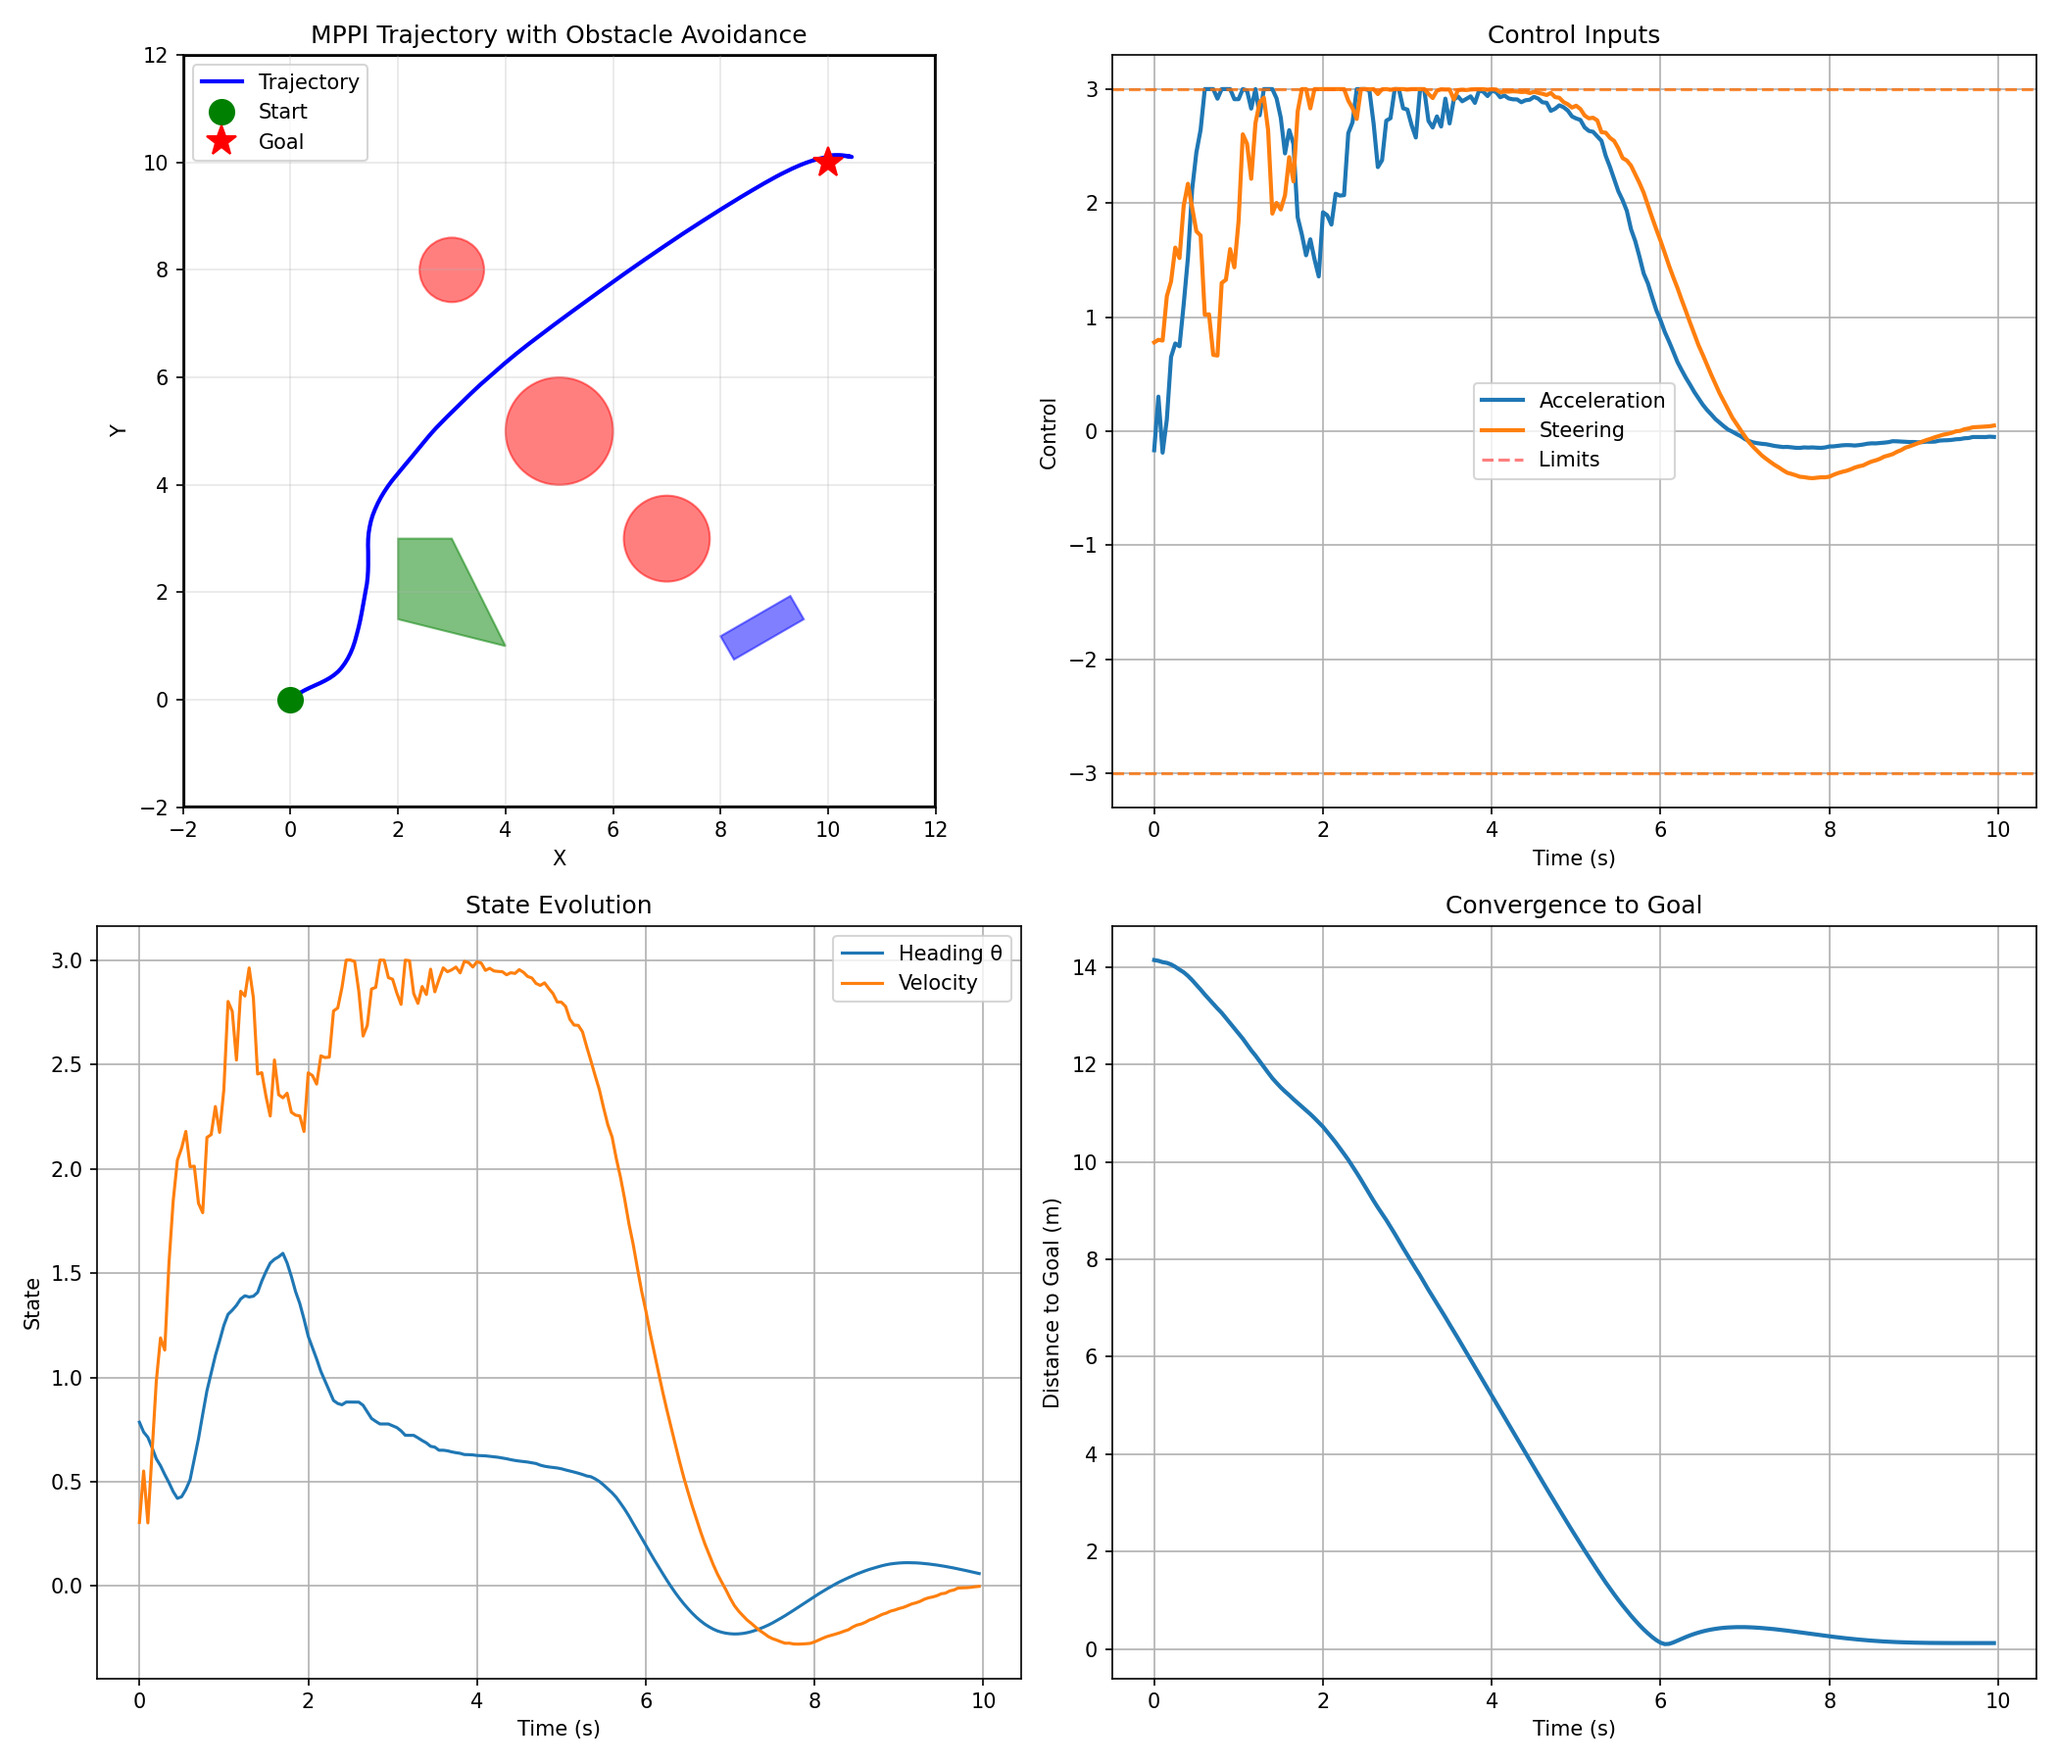
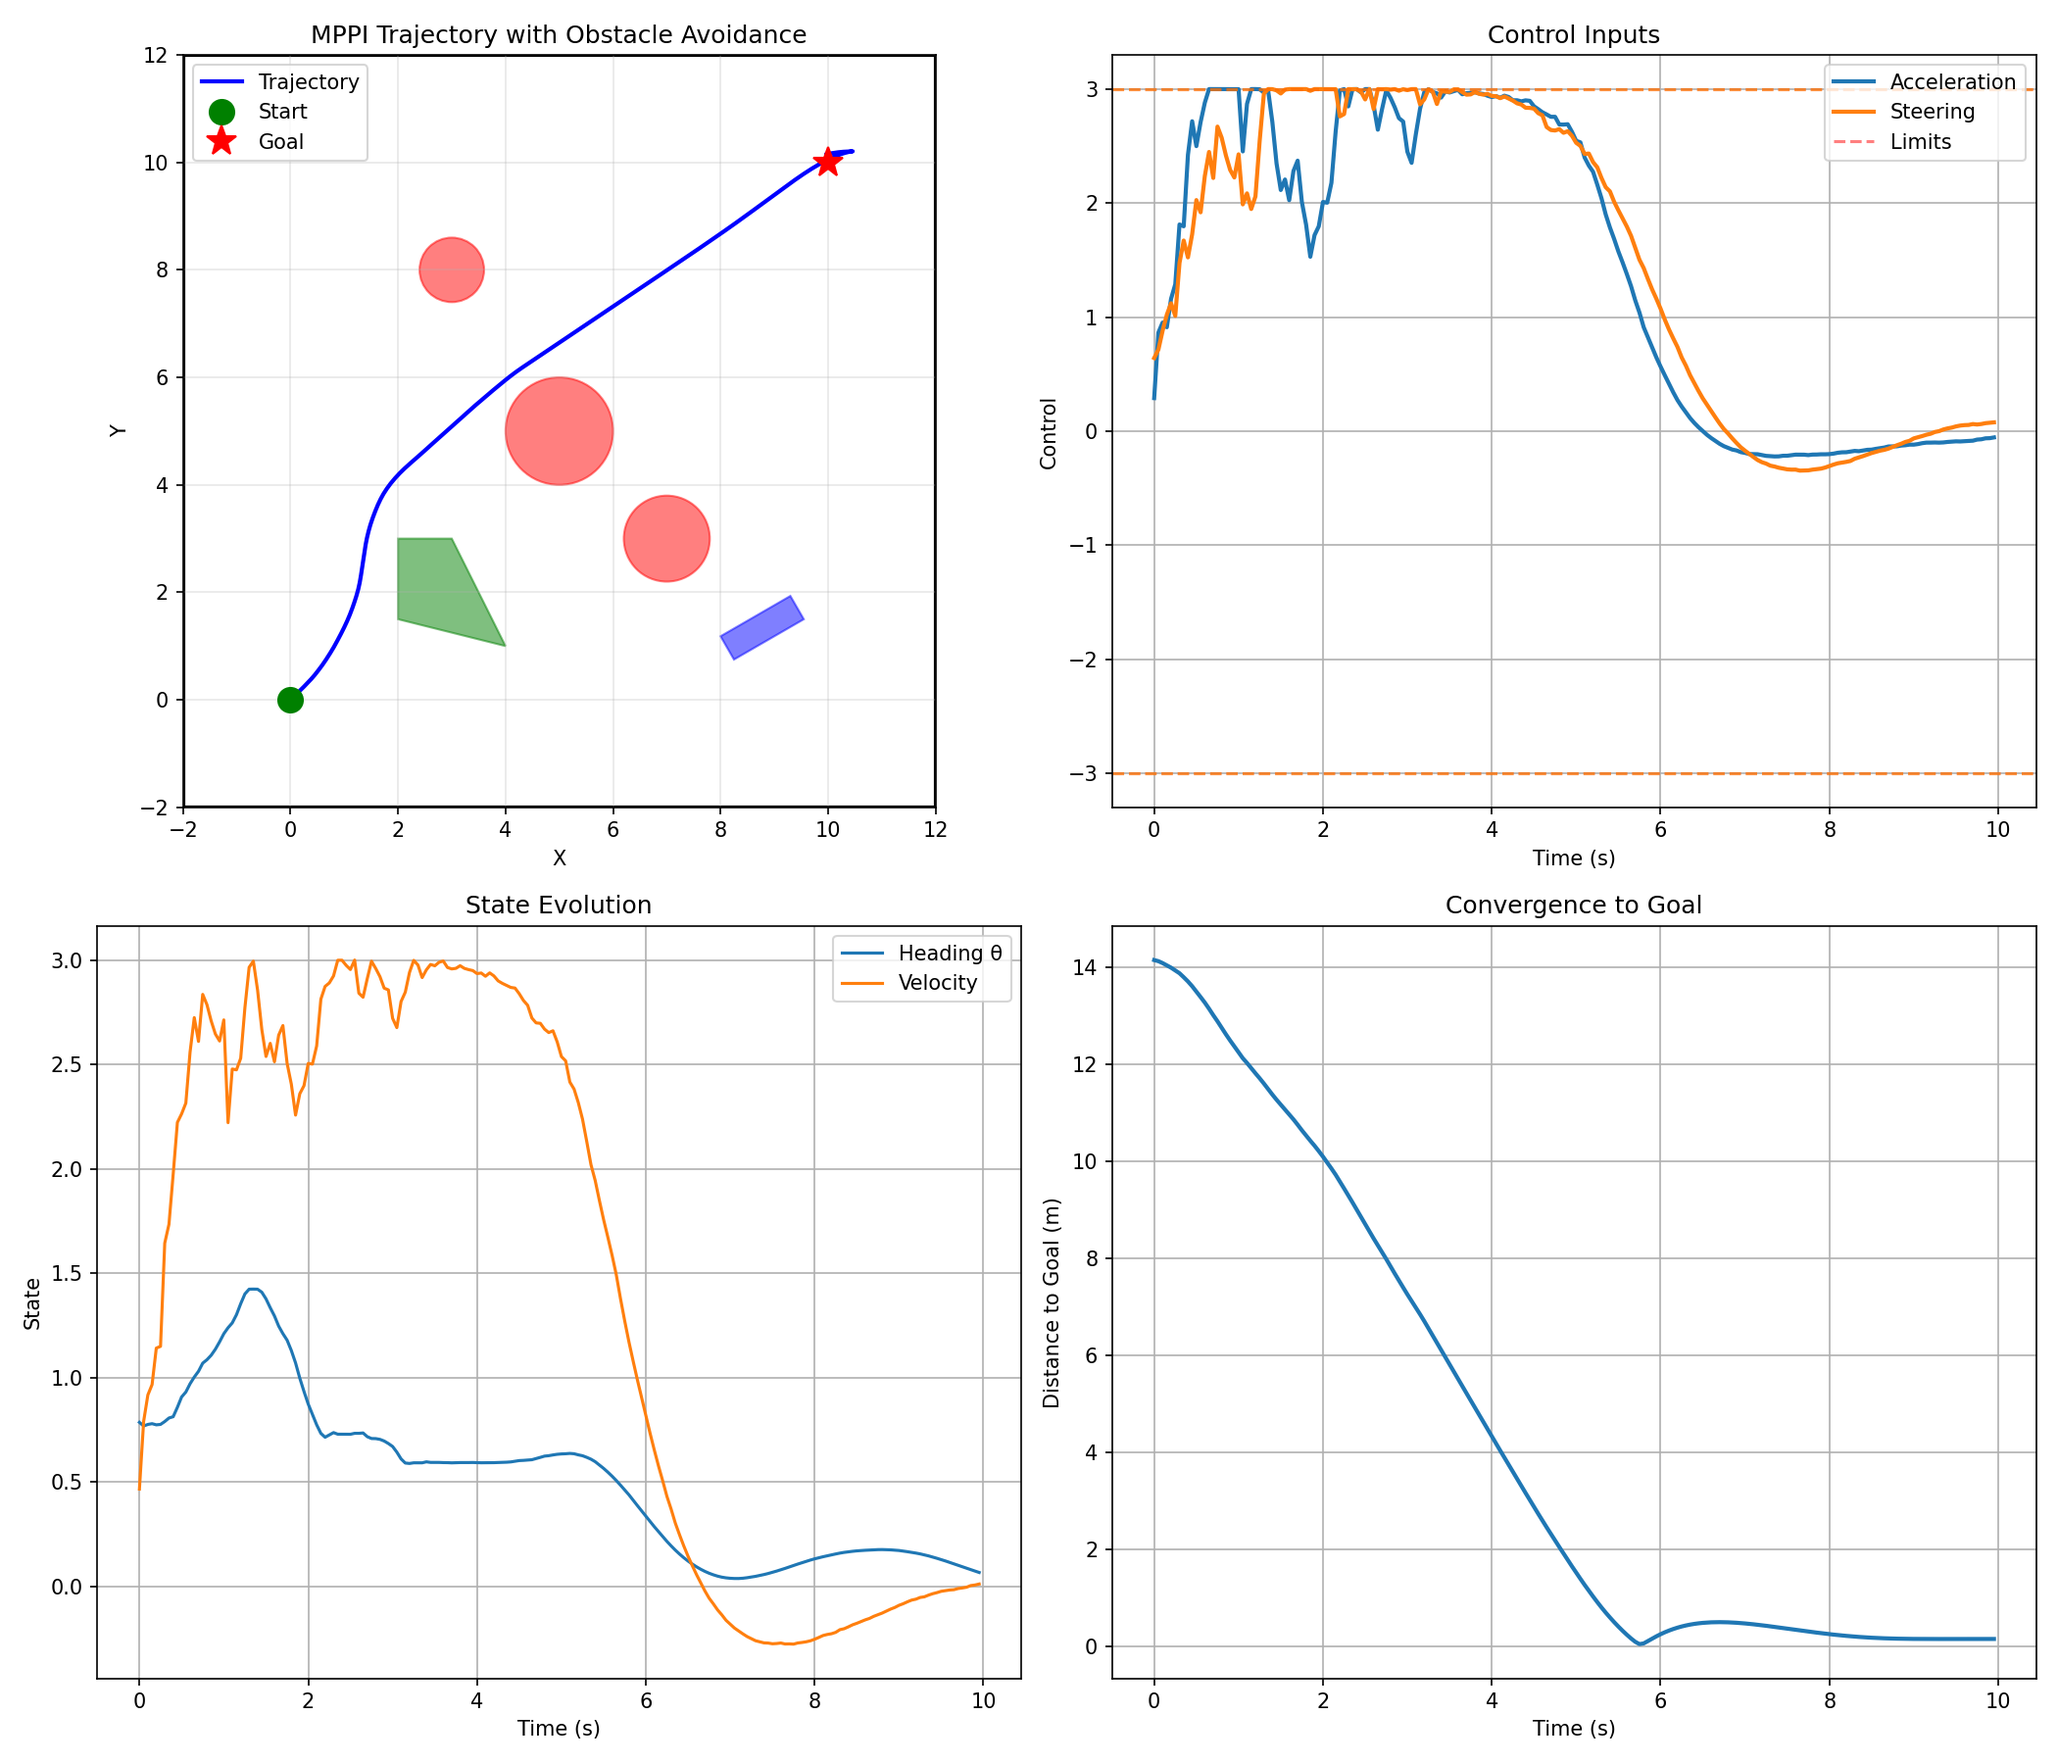
slop removal

diff --git a/src/dynProbMPPI_test.py b/src/dynProbMPPI_test.py
@@ -10,15 +10,15 @@ from environments.dynamicEnv_probabilistic import ProbabilisticEnv, Obstacle, Ob
 # ============================================================================
 # Setup Environment
 # ============================================================================
-corridor_width = 8.0
-env = ProbabilisticEnv(bounds=(-corridor_width, corridor_width, -4, 24), robot_radius=0.25)
+corridor_width = 4.0
+env = ProbabilisticEnv(bounds=(-corridor_width, corridor_width, -4, 24), robot_radius=0.2)
 
 # Add moving circular obstacles
 rng = np.random.default_rng(seed=42)
-for i in range(1,15):
+for i in range(1,8):
     env.add_obstacle(
         Obstacle(position=[np.random.randint(-corridor_width+1, corridor_width-1), np.random.randint(1.0, 22.0)], 
-                 radius=0.3+0.5*np.random.rand(),
+                 radius=0.3+0.4*np.random.rand(),
                  velocity=[2.0*np.random.rand()-1.0, 2.0*np.random.rand()-1.0],
                  mode=ObstacleMode.AVOIDANT)
     )
@@ -39,8 +39,9 @@ print("State Dimensions: ", state_dim)
 
 max_deg = 75.0
 if state_dim == 4:
-    Q_mod=np.diag([10.0, 10.0, 2.0, 2.0])
+    Q_mod=np.diag([10.0, 10.0, 2.0, 10.0])
     Qf_mod=np.diag([50.0, 50.0, 10.0, 50.0])
+    R_mod = np.diag([0.1, 0.1])
     umin_mod = np.array([-2.0, -max_deg*np.pi/180])
     umax_mod = np.array([2.0, max_deg*np.pi/180])
     noise_mod = np.array([0.55, 0.15])
@@ -50,11 +51,12 @@ if state_dim == 4:
     x_goal = np.array([0.0, 20.0, np.pi/2, 0.0])
 
 else:
-    Q_mod=np.diag([7.0, 7.0, 2.0])
+    Q_mod=np.diag([7.0, 7.0, 1.5])
     Qf_mod=np.diag([40.0, 40.0, 5.0])
+    R_mod = np.eye(control_dim) * 10.0
     umin_mod = np.array([-4.0, -4.0])
     umax_mod = np.array([4.0, 4.0])
-    noise_mod = np.array([0.6, 0.6])
+    noise_mod = np.array([0.5, 0.5])
     ctrl_label_1 = "Left Wheel Velocity"
     ctrl_label_2 = "Right Wheel Velocity"
     x0 = np.array([0.0, 0.0, 0.0])
@@ -69,7 +71,7 @@ config = MPPIConfig(
 
     Q=Q_mod,
     Qf=Qf_mod,
-    R=np.diag([0.1, 0.1]),
+    R=R_mod,
 
     Q_obs=250.0,
     d_safe=env.robot_radius + 0.1,
@@ -112,6 +114,7 @@ for step in range(num_steps):
     # --- Get MPPI control ---
     start = time.time()
     u, is_safe = mppi.get_control(x, x_goal)
+    cov = mppi.get_covariance()
     end = time.time()
 
     # --- Apply dynamics ---
@@ -124,14 +127,20 @@ for step in range(num_steps):
     trajectory.append(x.copy())
     controls.append(u.copy())
 
+    if state_dim == 4:
+        vel = x[3]
+    else:
+        vel = 0.5*u[0] + 0.5*u[1]
+
     # --- Goal check ---
-    if np.linalg.norm(x[:2] - x_goal[:2]) < env.robot_radius:
+    if (np.linalg.norm(x[:2] - x_goal[:2]) < env.robot_radius) & (vel < 0.01):
         print(f"Reached goal at step {step}")
         break
 
     if step % 20 == 0:
         rollout_snapshots[step] = mppi.get_rollout_snapshot(n=5)
         print(f"Step {step}: pos=({x[0]:.2f},{x[1]:.2f}), "
+              f"covariance={cov}, "
               f"safe={is_safe}, "
               f"time per step={end-start:.3f}s")
 

diff --git a/controllers/mppi_dynObs.py b/controllers/mppi_dynObs.py
@@ -5,6 +5,7 @@ from numba import cuda
 from numba.cuda.random import create_xoroshiro128p_states
 from dataclasses import dataclass
 from typing import Callable, Optional
+from scipy.signal import savgol_filter
 
 from controllers.cuda_kernels import (
     make_rollout_kernel_coalesced,
@@ -49,7 +50,7 @@ class MPPIConfig:
     noise_sigma: np.ndarray = None
 
     # Covariance adaptation parameters
-    covariance_max_scale: float = 5.0   # maximum multiplier on base sigma when in danger
+    covariance_max_scale: float = 4.0   # maximum multiplier on base sigma when in danger
     covariance_decay: float = 0.7       # per-step decay rate back toward base when recovering
 
     # Probabilistic obstacle prediction parameters
@@ -303,7 +304,7 @@ class MPPIDynObs:
             self.config.dt, self.config.num_samples, self.config.horizon,
         )
 
-        # ---- Single-pass cost + min_dist (replaces two separate kernel calls) ----
+        # ---- Single-pass cost + min_dist ----
         mc_cost_and_min_dist_kernel[blocks, threads](
             self.d_trajectories, self.d_samples, self.d_costs, self.d_min_dists,
             self.d_x_goal, self.d_Q_diag, self.d_R_diag, self.d_Qf_diag,
@@ -360,7 +361,7 @@ class MPPIDynObs:
                     + (1.0 - self.config.covariance_decay) * self.base_covariance
                 )
 
-        # ---- CPU softmin weights (80 KB D2H already done; weights are cheap on CPU) ----
+        # ---- CPU softmin weights ----
         min_cost   = np.min(costs)
         weights    = np.exp(-(costs - min_cost) / max(1e-8, self.config.lambda_)).astype(np.float32)
         w_sum      = np.sum(weights)
@@ -385,8 +386,12 @@ class MPPIDynObs:
         self._last_expected_traj = self.d_expected_traj.copy_to_host()
         trajectory = self._last_expected_traj if return_trajectory else None
         expected_controls = self.d_expected_controls.copy_to_host()   # (H, C)
+        # print(expected_controls)
 
-        self.u_nominal = expected_controls
+        window_size = 11
+        window_deg = 4
+        self.u_nominal[:, 0] = savgol_filter(expected_controls[:, 0], window_size, window_deg)
+        self.u_nominal[:, 1] = savgol_filter(expected_controls[:, 1], window_size, window_deg)
         u_opt = expected_controls[0, :].astype(np.float32)
 
         if return_trajectory:
@@ -418,6 +423,9 @@ class MPPIDynObs:
         indices = np.random.choice(self.config.num_samples, size=n, replace=False)
         sample_trajs = np.stack([self.d_trajectories[i].copy_to_host() for i in indices])
         return self._last_expected_traj, sample_trajs
+    
+    def get_covariance(self):
+        return self.current_covariance
 
     def free_gpu_buffers(self, force_reset: bool = False):
         import gc

diff --git a/environments/dynamicEnv_probabilistic.py b/environments/dynamicEnv_probabilistic.py
@@ -12,7 +12,7 @@ class ObstacleMode(Enum):
 class Obstacle:
 
     def __init__(self, position: np.ndarray, radius: float, velocity: np.ndarray = None, mode: ObstacleMode = ObstacleMode.APATHETIC,
-        speed: float = None, tau: float = 0.1, avoidance_radius: float = 3.0, avoidance_strength: float = 6.0,
+        speed: float = None, tau: float = 0.1, avoidance_radius: float = 3.0, avoidance_strength: float = 3.0,
         neighbor_avoidance_radius: float = 1.5, neighbor_avoidance_strength: float = 1.0):
         self.position = np.asarray(position, dtype=np.float32)
         if velocity is None:
@@ -163,7 +163,6 @@ class Obstacle:
         self.velocity += (v_desired - self.velocity) * (dt / self.tau)
 
         self.position += self.velocity * dt
-
 
 class ProbabilisticEnv:
     def __init__(

diff --git a/dynamics/native_dynamics.py b/dynamics/native_dynamics.py
@@ -44,7 +44,7 @@ def bicycle_dynamics_host(x, u, dt, params, x_next=None):
     px_next = px + v * math.cos(theta) * dt
     py_next = py + v * math.sin(theta) * dt
     theta_next = theta + (v / L) * math.tan(delta) * dt
-    v_next = v + a * dt
+    v_next = max(0.0, v + a * dt)
 
     return np.array([px_next, py_next, theta_next, v_next], dtype=np.float32)
 

diff --git a/dynamics/cuda_dynamics.py b/dynamics/cuda_dynamics.py
@@ -52,7 +52,7 @@ def bicycle_dynamics(x, u, dt, params, x_next):
     px_next = px + v * math.cos(theta) * dt
     py_next = py + v * math.sin(theta) * dt
     theta_next = theta + (v / L) * math.tan(delta) * dt
-    v_next = v + a * dt
+    v_next = max(0.0, v + a * dt)
     
     x_next[0] = px_next
     x_next[1] = py_next

diff --git a/src/staticMPPI_test.py b/src/staticMPPI_test.py
@@ -40,7 +40,7 @@ if state_dim == 4:
     x_goal = np.array([10.0, 10.0, 0.0, 0.0])
 
 else:
-    Q_mod=np.diag([10.0, 10.0, 2.0])
+    Q_mod=np.diag([7.0, 7.0, 2.0])
     Qf_mod=np.diag([50.0, 50.0, 5.0])
     umin_mod = np.array([-3.0, -3.0])
     umax_mod = np.array([3.0, 3.0])
